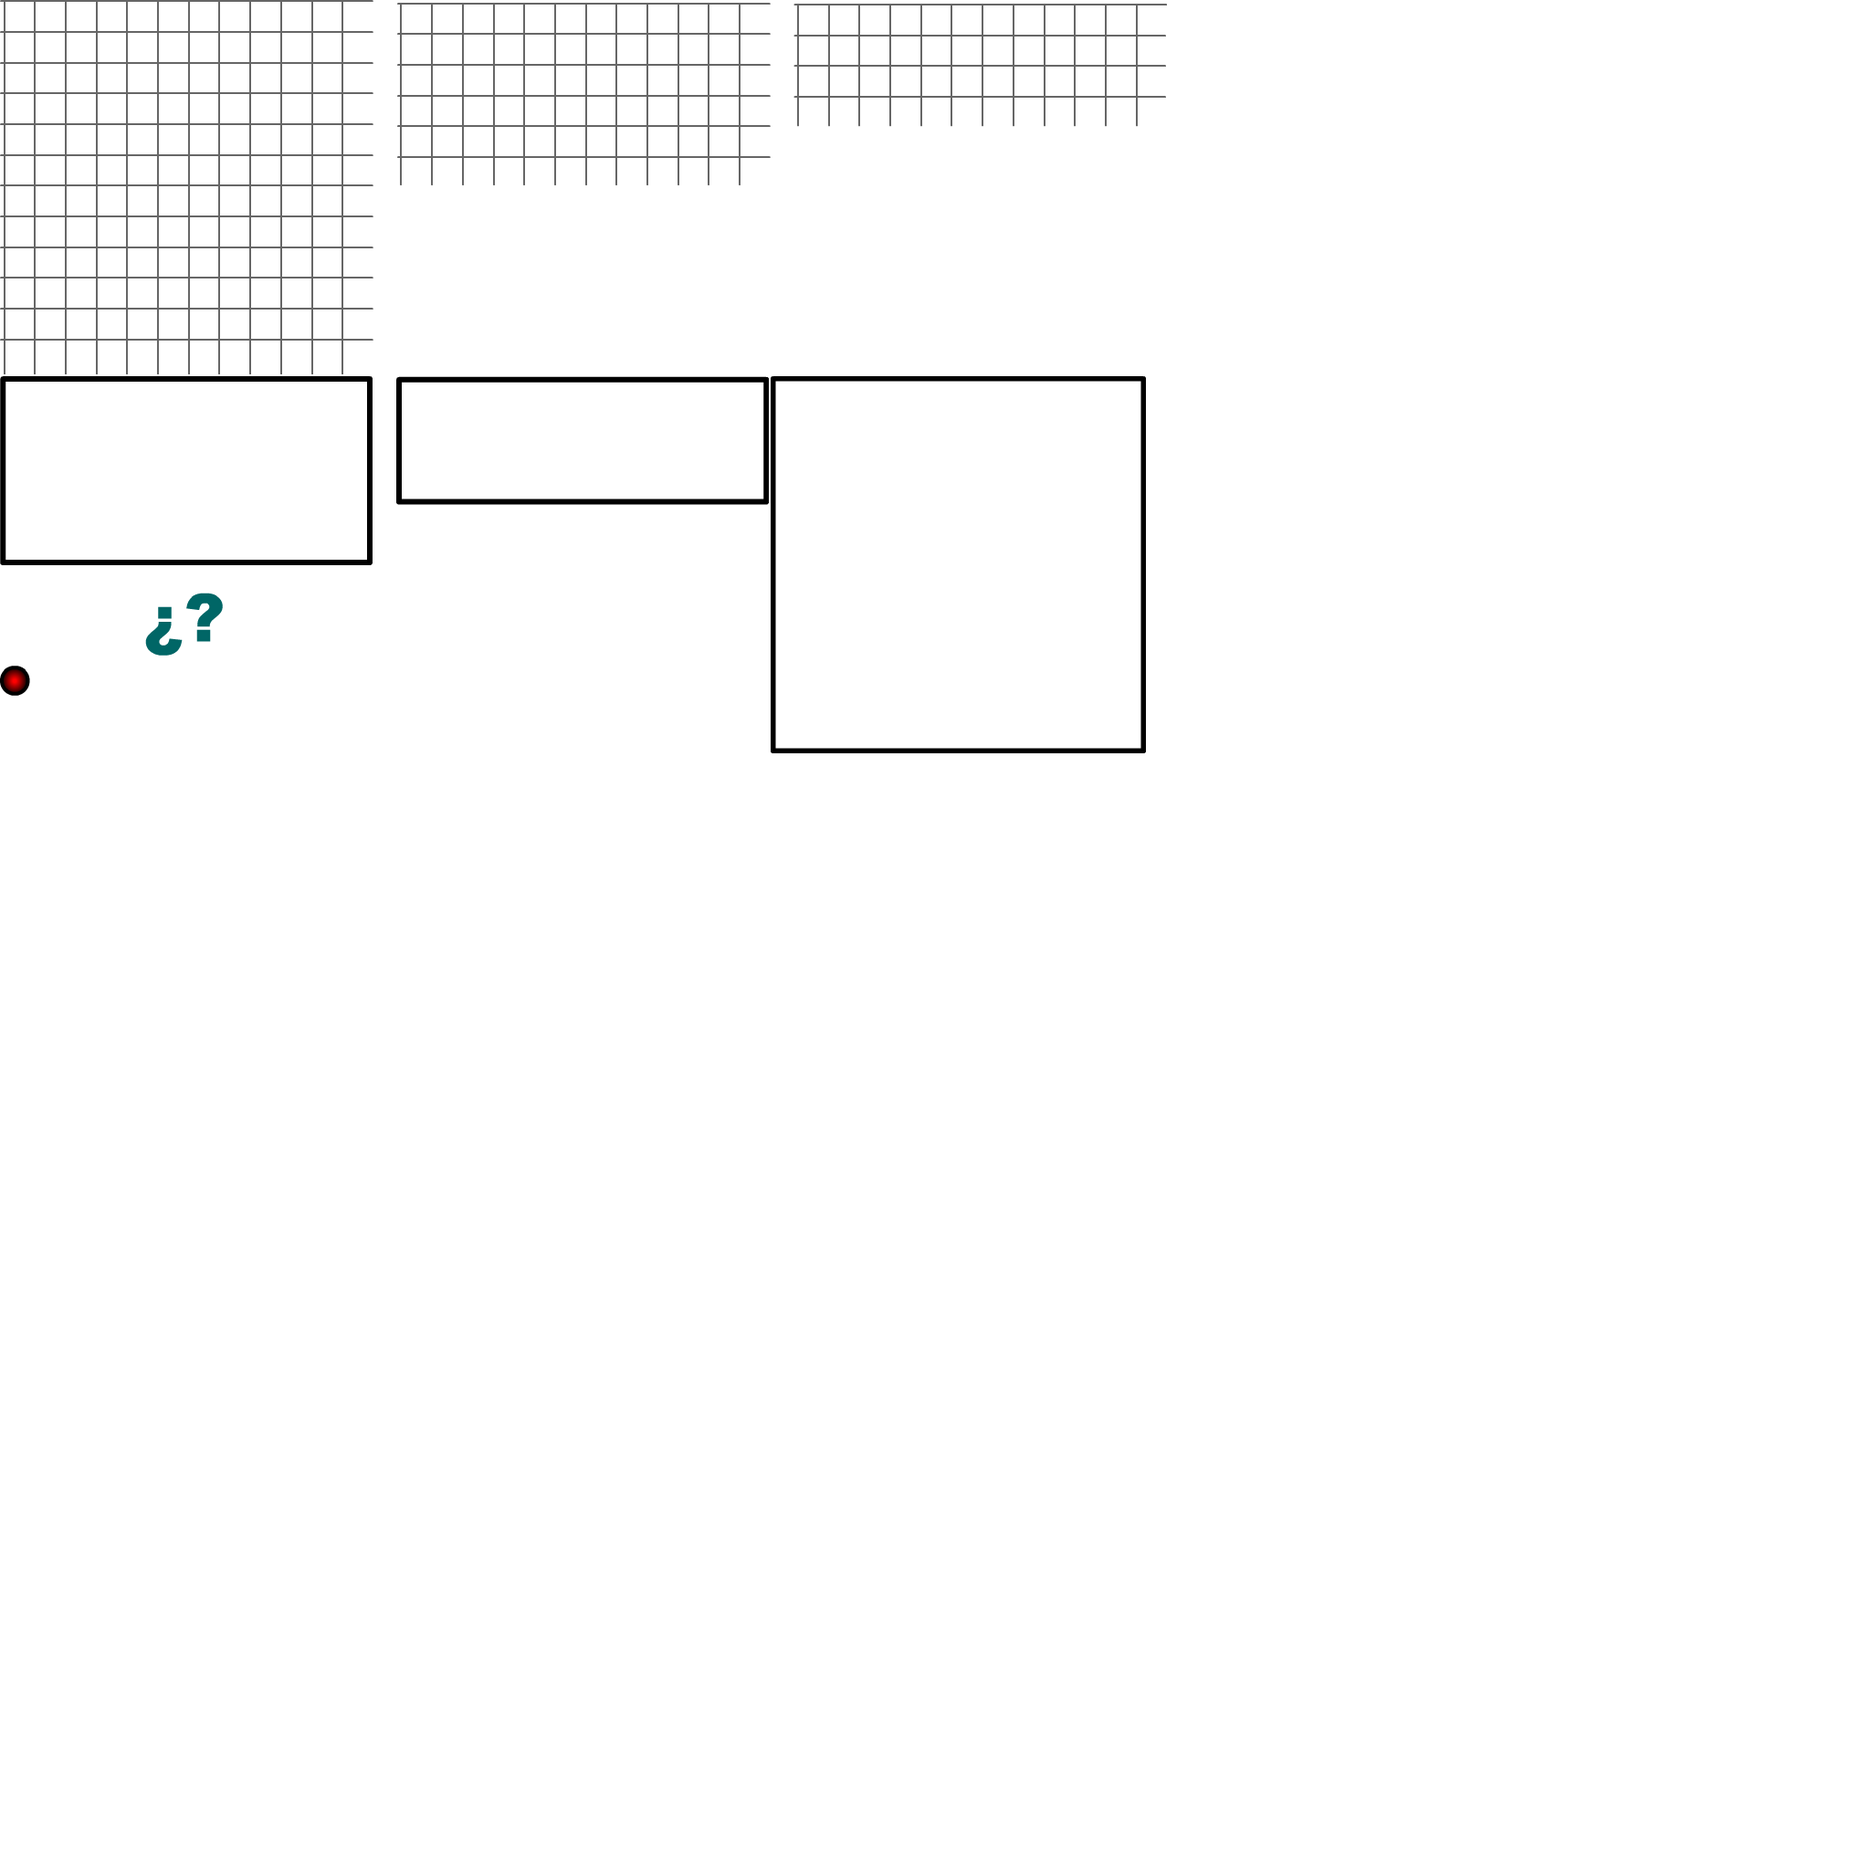
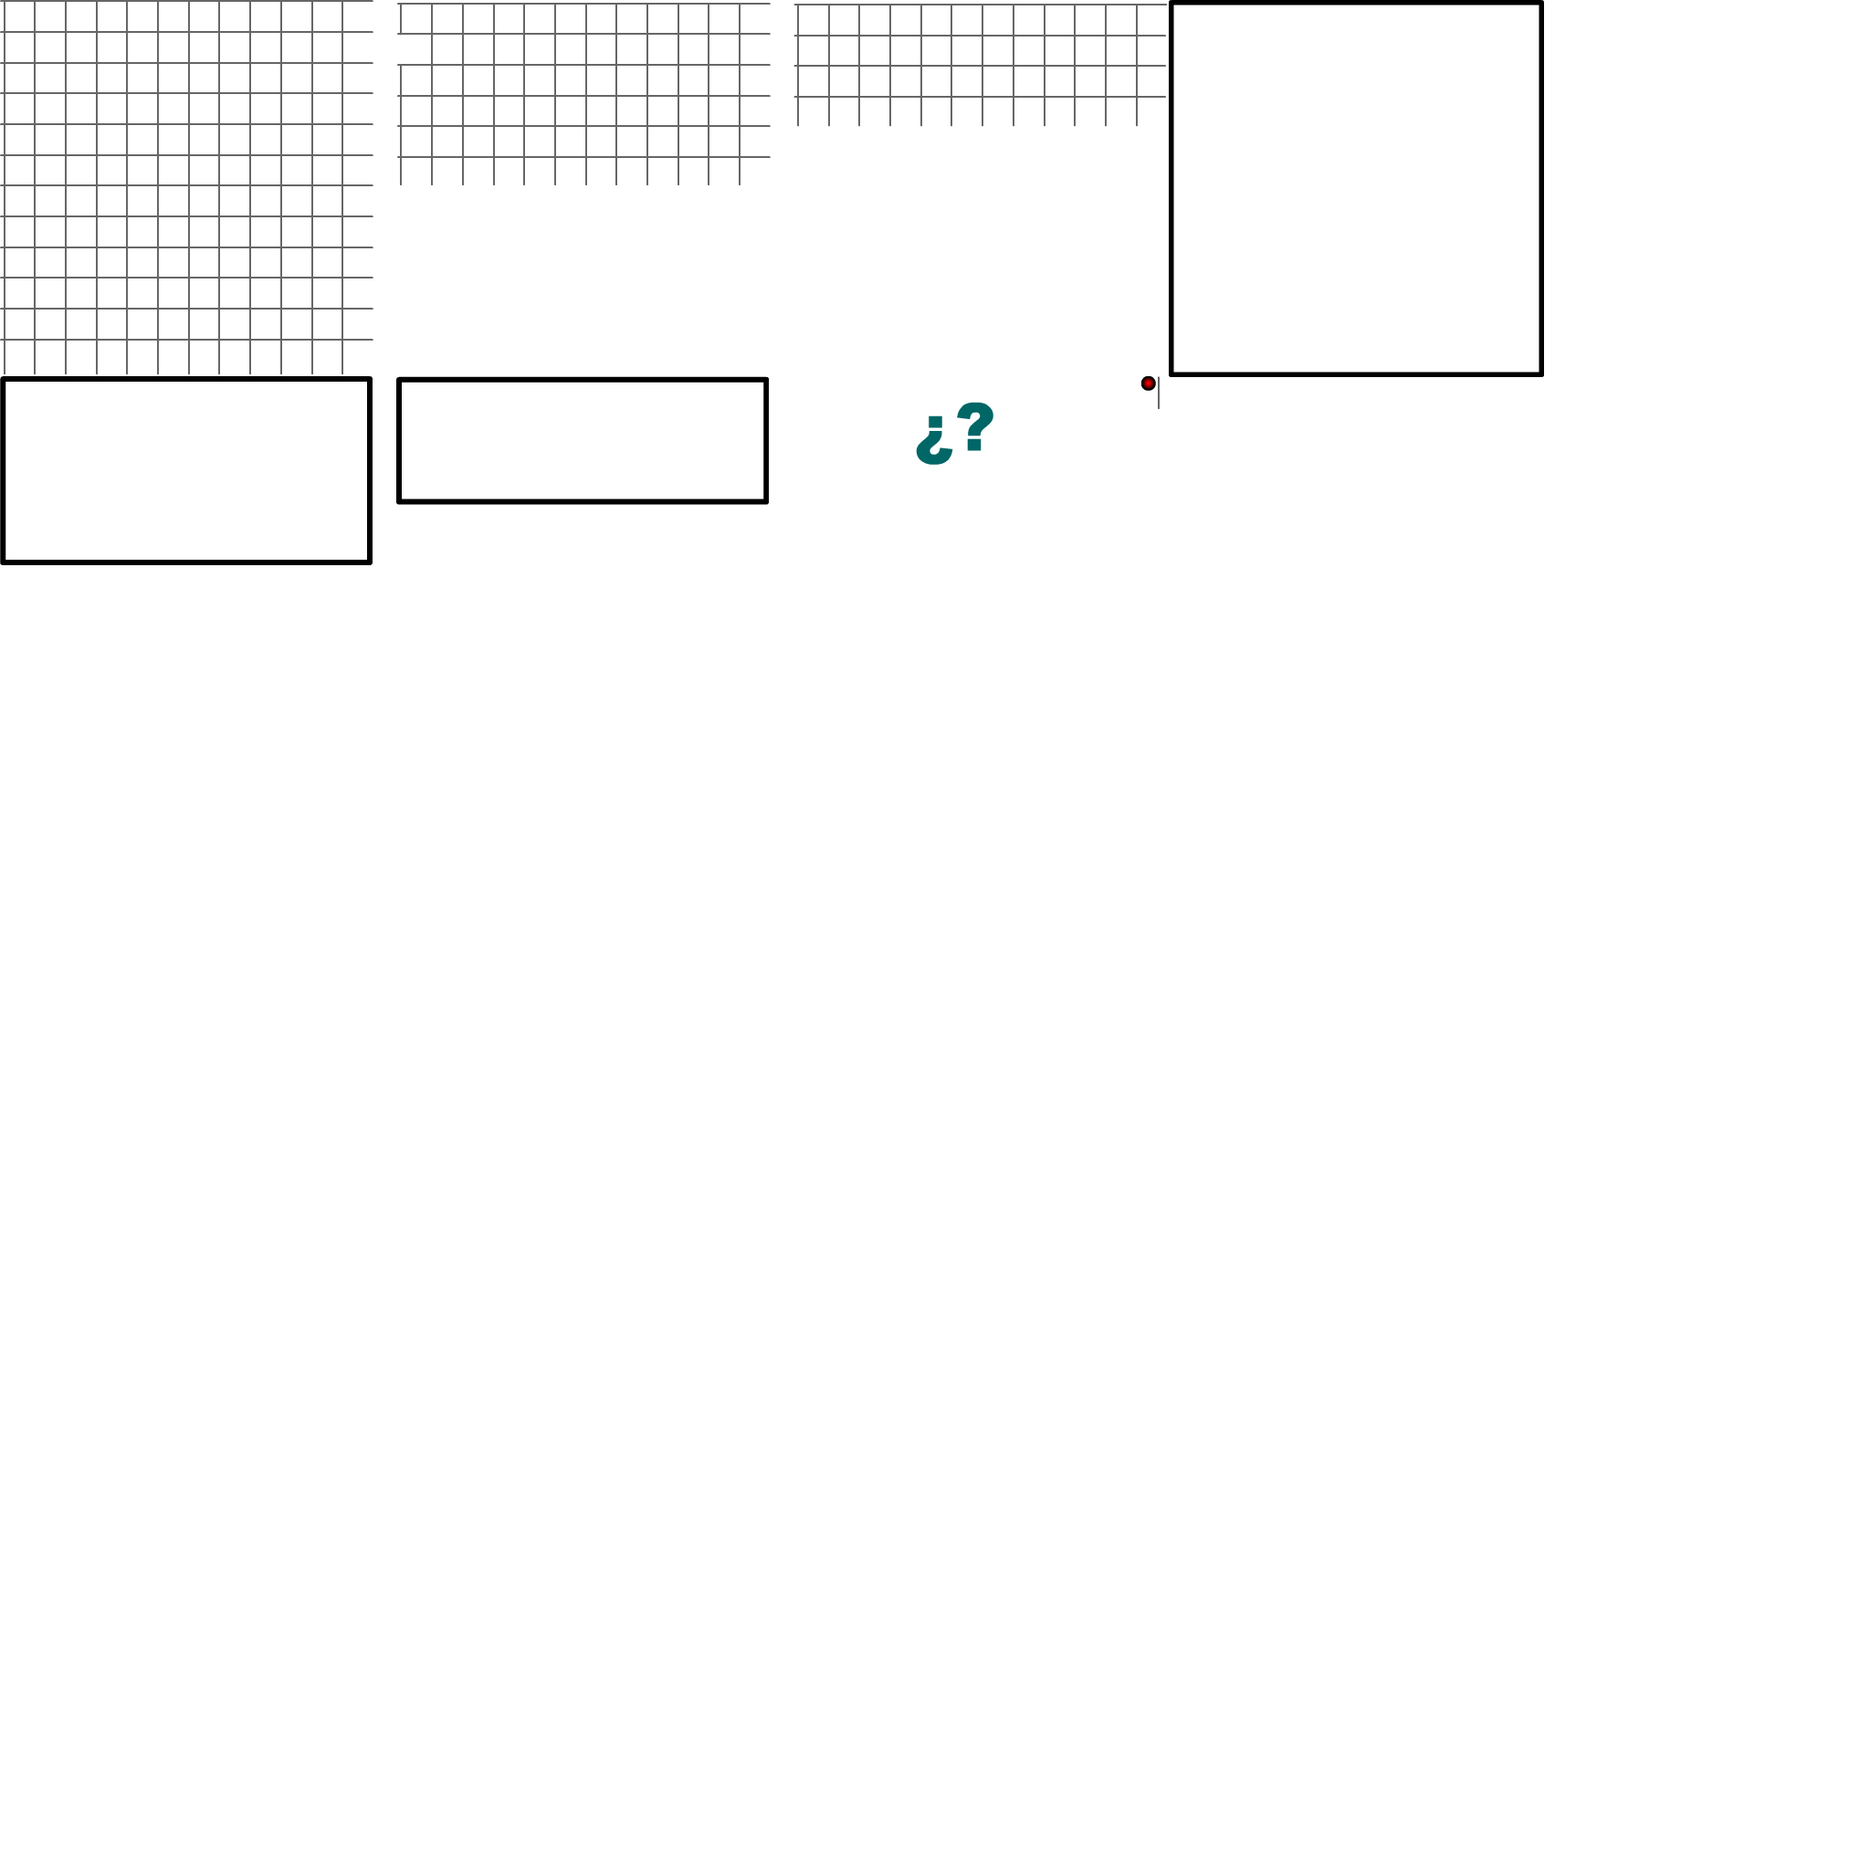
Add files via upload

diff --git a/CronopiosHcuadr.js b/CronopiosHcuadr.js
@@ -3,7 +3,7 @@
 var p; // shortcut to reference prototypes
 var lib={};var ss={};var img={};
 lib.ssMetadata = [
-		{name:"CronopiosHcuadr_atlas_", frames: [[0,412,842,207],[0,621,404,106],[0,0,1278,410],[0,729,33,33],[844,412,411,413]]}
+		{name:"CronopiosHcuadr_atlas_", frames: [[1268,412,2,36],[0,412,842,207],[844,412,404,106],[0,0,1278,410],[1250,412,16,16],[1280,0,411,413]]}
 ];
 
 
@@ -11,37 +11,44 @@ lib.ssMetadata = [
 
 
 
-(lib.CachedTexturedBitmap_21 = function() {
+(lib.CachedTexturedBitmap_1 = function() {
 	this.initialize(ss["CronopiosHcuadr_atlas_"]);
 	this.gotoAndStop(0);
 }).prototype = p = new cjs.Sprite();
 
 
 
-(lib.CachedTexturedBitmap_22 = function() {
+(lib.CachedTexturedBitmap_2 = function() {
 	this.initialize(ss["CronopiosHcuadr_atlas_"]);
 	this.gotoAndStop(1);
 }).prototype = p = new cjs.Sprite();
 
 
 
-(lib.CachedTexturedBitmap_23 = function() {
+(lib.CachedTexturedBitmap_3 = function() {
 	this.initialize(ss["CronopiosHcuadr_atlas_"]);
 	this.gotoAndStop(2);
 }).prototype = p = new cjs.Sprite();
 
 
 
-(lib.CachedTexturedBitmap_24 = function() {
+(lib.CachedTexturedBitmap_4 = function() {
 	this.initialize(ss["CronopiosHcuadr_atlas_"]);
 	this.gotoAndStop(3);
 }).prototype = p = new cjs.Sprite();
 
 
 
-(lib.CachedTexturedBitmap_25 = function() {
+(lib.CachedTexturedBitmap_5 = function() {
 	this.initialize(ss["CronopiosHcuadr_atlas_"]);
 	this.gotoAndStop(4);
+}).prototype = p = new cjs.Sprite();
+
+
+
+(lib.CachedTexturedBitmap_6 = function() {
+	this.initialize(ss["CronopiosHcuadr_atlas_"]);
+	this.gotoAndStop(5);
 }).prototype = p = new cjs.Sprite();
 // helper functions:
 
@@ -66,7 +73,7 @@ function getMCSymbolPrototype(symbol, nominalBounds, frameBounds) {
 	this.initialize(mode,startPosition,loop,{});
 
 	// Cuadricula
-	this.instance = new lib.CachedTexturedBitmap_23();
+	this.instance = new lib.CachedTexturedBitmap_4();
 	this.instance.parent = this;
 	this.instance.setTransform(7.3,13.2,0.5,0.5);
 
@@ -79,7 +86,7 @@ function getMCSymbolPrototype(symbol, nominalBounds, frameBounds) {
 	this.initialize(mode,startPosition,loop,{});
 
 	// Capa_1
-	this.instance = new lib.CachedTexturedBitmap_25();
+	this.instance = new lib.CachedTexturedBitmap_6();
 	this.instance.parent = this;
 	this.instance.setTransform(-245.8,-245.8,1.2343,1.2343);
 
@@ -92,9 +99,9 @@ function getMCSymbolPrototype(symbol, nominalBounds, frameBounds) {
 	this.initialize(mode,startPosition,loop,{});
 
 	// Capa_1
-	this.instance = new lib.CachedTexturedBitmap_24();
+	this.instance = new lib.CachedTexturedBitmap_5();
 	this.instance.parent = this;
-	this.instance.setTransform(-22.25,-25.55,1.401,1.401);
+	this.instance.setTransform(-22.15,-25.5,2.8064,2.8064);
 
 	this.timeline.addTween(cjs.Tween.get(this.instance).wait(1));
 
@@ -128,7 +135,7 @@ function getMCSymbolPrototype(symbol, nominalBounds, frameBounds) {
 	this.Capa_1 = new lib.ch_Capa_1();
 	this.Capa_1.name = "Capa_1";
 	this.Capa_1.parent = this;
-	this.Capa_1.setTransform(0.8,-2.5,1,1,0,0,0,0.8,-2.5);
+	this.Capa_1.setTransform(0.3,-3.1,1,1,0,0,0,0.3,-3.1);
 	this.Capa_1.depth = 0;
 	this.Capa_1.isAttachedToCamera = 0
 	this.Capa_1.isAttachedToMask = 0
@@ -138,119 +145,132 @@ function getMCSymbolPrototype(symbol, nominalBounds, frameBounds) {
 
 	this.timeline.addTween(cjs.Tween.get(this.Capa_1).wait(1));
 
-}).prototype = getMCSymbolPrototype(lib.ch, new cjs.Rectangle(-22.2,-25.5,46.2,46.2), null);
+}).prototype = getMCSymbolPrototype(lib.ch, new cjs.Rectangle(-22.1,-25.5,44.900000000000006,44.9), null);
 
 
 (lib.Escena_1_clips = function(mode,startPosition,loop) {
 	this.initialize(mode,startPosition,loop,{});
 
 	// clips
-	this.instance = new lib.CachedTexturedBitmap_22();
+	this.instance = new lib.CachedTexturedBitmap_3();
 	this.instance.parent = this;
 	this.instance.setTransform(444.1,15.95,0.5,0.5);
 
 	this.movieClip_18 = new lib.ch();
 	this.movieClip_18.name = "movieClip_18";
 	this.movieClip_18.parent = this;
-	this.movieClip_18.setTransform(150.5,185.65,0.3548,0.3569,0,0,0,0.1,0.1);
+	this.movieClip_18.setTransform(181.45,47.35,0.1772,0.1782,0,0,0,0.3,0.6);
 
 	this.movieClip_17 = new lib.ch();
 	this.movieClip_17.name = "movieClip_17";
 	this.movieClip_17.parent = this;
-	this.movieClip_17.setTransform(114.3,183.3,0.3548,0.3569,0,0,0,0.1,0.1);
+	this.movieClip_17.setTransform(152.7,98.15,0.1772,0.1782,0,0,0,0.3,0.6);
 
 	this.movieClip_16 = new lib.ch();
 	this.movieClip_16.name = "movieClip_16";
 	this.movieClip_16.parent = this;
-	this.movieClip_16.setTransform(32.6,183.3,0.3548,0.3569,0,0,0,0.1,0.1);
+	this.movieClip_16.setTransform(29.2,104.05,0.1772,0.1782,0,0,0,0.3,0.6);
 
 	this.movieClip_15 = new lib.ch();
 	this.movieClip_15.name = "movieClip_15";
 	this.movieClip_15.parent = this;
-	this.movieClip_15.setTransform(138.95,134.15,0.3548,0.3569,0,0,0,0.1,0);
+	this.movieClip_15.setTransform(166.75,209.55,0.1772,0.1782,0,0,0,0.3,0.3);
 
 	this.movieClip_14 = new lib.ch();
 	this.movieClip_14.name = "movieClip_14";
 	this.movieClip_14.parent = this;
-	this.movieClip_14.setTransform(73,134.15,0.3548,0.3569,0,0,0,0.1,0);
+	this.movieClip_14.setTransform(93.6,182.3,0.1772,0.1782,0,0,0,0.3,0.3);
 
 	this.movieClip_13 = new lib.ch();
 	this.movieClip_13.name = "movieClip_13";
 	this.movieClip_13.parent = this;
-	this.movieClip_13.setTransform(134.75,82.95,0.3548,0.3569,0,0,0,0.1,0.1);
+	this.movieClip_13.setTransform(110.6,123.25,0.1772,0.1782,0,0,0,0.3,0.3);
 
 	this.movieClip_12 = new lib.ch();
 	this.movieClip_12.name = "movieClip_12";
 	this.movieClip_12.parent = this;
-	this.movieClip_12.setTransform(75.75,76.05,0.3548,0.3569,0,0,0,0.1,0.1);
+	this.movieClip_12.setTransform(43.25,165.45,0.1772,0.1782,0,0,0,0.3,0.3);
 
 	this.movieClip_11 = new lib.ch();
 	this.movieClip_11.name = "movieClip_11";
 	this.movieClip_11.parent = this;
-	this.movieClip_11.setTransform(39.1,87.75,0.3548,0.3569,0,0,0,0.1,0.1);
+	this.movieClip_11.setTransform(60.65,80.85,0.1772,0.1782,0,0,0,0.3,0.3);
 
 	this.movieClip_10 = new lib.ch();
 	this.movieClip_10.name = "movieClip_10";
 	this.movieClip_10.parent = this;
-	this.movieClip_10.setTransform(161.65,38.5,0.3548,0.3569,0,0,0,0.1,0.1);
+	this.movieClip_10.setTransform(145.55,38.95,0.1772,0.1782,0,0,0,0.3,0.6);
 
 	this.movieClip_9 = new lib.ch();
 	this.movieClip_9.name = "movieClip_9";
 	this.movieClip_9.parent = this;
-	this.movieClip_9.setTransform(114.3,38.5,0.3548,0.3569,0,0,0,0.1,0.1);
+	this.movieClip_9.setTransform(60.65,105.2,0.1772,0.1782,0,0,0,0.3,0.6);
 
 	this.movieClip_8 = new lib.ch();
 	this.movieClip_8.name = "movieClip_8";
 	this.movieClip_8.parent = this;
-	this.movieClip_8.setTransform(81.3,32.95,0.3548,0.3569,0,0,0,0.1,0.1);
+	this.movieClip_8.setTransform(110.6,29.4,0.1772,0.1782,0,0,0,0.3,0.6);
 
 	this.movieClip_7 = new lib.ch();
 	this.movieClip_7.name = "movieClip_7";
 	this.movieClip_7.parent = this;
-	this.movieClip_7.setTransform(35.9,40.95,0.3548,0.3569,0,0,0,0.1,0.1);
+	this.movieClip_7.setTransform(30.75,33.05,0.1772,0.1782,0,0,0,0.3,0.6);
 
 	this.movieClip_6 = new lib.ch();
 	this.movieClip_6.name = "movieClip_6";
 	this.movieClip_6.parent = this;
-	this.movieClip_6.setTransform(364.4,36.3,0.3548,0.3545,0,0,0,0,0.1);
+	this.movieClip_6.setTransform(387,31.8,0.1772,0.177,0,0,0,0,0.6);
 
 	this.movieClip_5 = new lib.ch();
 	this.movieClip_5.name = "movieClip_5";
 	this.movieClip_5.parent = this;
-	this.movieClip_5.setTransform(261.25,90.2,0.3548,0.3545,0,0,0,0.1,0.1);
+	this.movieClip_5.setTransform(268.9,77.35,0.1772,0.177,0,0,0,0.3,0.3);
 
 	this.movieClip_4 = new lib.ch();
 	this.movieClip_4.name = "movieClip_4";
 	this.movieClip_4.parent = this;
-	this.movieClip_4.setTransform(345.9,82.9,0.3548,0.3569,0,0,0,0.1,0);
+	this.movieClip_4.setTransform(311.25,73.65,0.1772,0.1782,0,0,0,0.3,0);
 
 	this.movieClip_3 = new lib.ch();
 	this.movieClip_3.name = "movieClip_3";
 	this.movieClip_3.parent = this;
-	this.movieClip_3.setTransform(388.7,69.25,0.3548,0.3569,0,0,0,0.1,0.1);
+	this.movieClip_3.setTransform(403.85,98.1,0.1772,0.1782,0,0,0,0.3,0.3);
 
 	this.movieClip_2 = new lib.ch();
 	this.movieClip_2.name = "movieClip_2";
 	this.movieClip_2.parent = this;
-	this.movieClip_2.setTransform(265.8,48,0.3548,0.3569,0,0,0,0.3,0.1);
+	this.movieClip_2.setTransform(328,40.2,0.1772,0.1782,0,0,0,0.6,0.6);
 
 	this.movieClip_1 = new lib.ch();
 	this.movieClip_1.name = "movieClip_1";
 	this.movieClip_1.parent = this;
-	this.movieClip_1.setTransform(303.55,40.95,0.3548,0.3569,0,0,0,0.1,0.1);
+	this.movieClip_1.setTransform(253.05,25.9,0.1772,0.1782,0,0,0,0.3,0.6);
 
+	this.timeline.addTween(cjs.Tween.get({}).to({state:[{t:this.movieClip_1},{t:this.movieClip_2},{t:this.movieClip_3},{t:this.movieClip_4},{t:this.movieClip_5},{t:this.movieClip_6},{t:this.movieClip_7},{t:this.movieClip_8},{t:this.movieClip_9},{t:this.movieClip_10},{t:this.movieClip_11},{t:this.movieClip_12},{t:this.movieClip_13},{t:this.movieClip_14},{t:this.movieClip_15},{t:this.movieClip_16},{t:this.movieClip_17},{t:this.movieClip_18},{t:this.instance}]}).wait(1));
+
+}).prototype = getMCSymbolPrototype(lib.Escena_1_clips, null, null);
+
+
+(lib.Escena_1_borde = function(mode,startPosition,loop) {
+	this.initialize(mode,startPosition,loop,{});
+
+	// borde
 	this.cuadrado = new lib.cuadrado();
 	this.cuadrado.name = "cuadrado";
 	this.cuadrado.parent = this;
 	this.cuadrado.setTransform(106.45,112.05,0.4051,0.4051,0,0,0,0.1,0.1);
 
-	this.instance_1 = new lib.CachedTexturedBitmap_21();
+	this.instance = new lib.CachedTexturedBitmap_2();
+	this.instance.parent = this;
+	this.instance.setTransform(224.9,13,0.5,0.5);
+
+	this.instance_1 = new lib.CachedTexturedBitmap_1();
 	this.instance_1.parent = this;
-	this.instance_1.setTransform(224.9,13,0.5,0.5);
+	this.instance_1.setTransform(226.4,31.3,0.5,0.5);
 
-	this.timeline.addTween(cjs.Tween.get({}).to({state:[{t:this.instance_1},{t:this.cuadrado},{t:this.movieClip_1},{t:this.movieClip_2},{t:this.movieClip_3},{t:this.movieClip_4},{t:this.movieClip_5},{t:this.movieClip_6},{t:this.movieClip_7},{t:this.movieClip_8},{t:this.movieClip_9},{t:this.movieClip_10},{t:this.movieClip_11},{t:this.movieClip_12},{t:this.movieClip_13},{t:this.movieClip_14},{t:this.movieClip_15},{t:this.movieClip_16},{t:this.movieClip_17},{t:this.movieClip_18},{t:this.instance}]}).wait(1));
+	this.timeline.addTween(cjs.Tween.get({}).to({state:[{t:this.instance_1},{t:this.instance},{t:this.cuadrado}]}).wait(1));
 
-}).prototype = getMCSymbolPrototype(lib.Escena_1_clips, null, null);
+}).prototype = getMCSymbolPrototype(lib.Escena_1_borde, null, null);
 
 
 // stage content:
@@ -288,7 +308,7 @@ function getMCSymbolPrototype(symbol, nominalBounds, frameBounds) {
 
 	// timeline functions:
 	this.frame_0 = function() {
-		this.cuadrado = this.clips.cuadrado;
+		this.cuadrado = this.borde.cuadrado;
 		this.movieClip_1 = this.clips.movieClip_1;
 		this.movieClip_2 = this.clips.movieClip_2;
 		this.movieClip_3 = this.clips.movieClip_3;
@@ -352,8 +372,8 @@ function getMCSymbolPrototype(symbol, nominalBounds, frameBounds) {
 		var vx18 = -2; var vy18 = -0.5;
 		
 		// --- DIMENSIONES FIJAS ---
-		var ANCHO = 15;
-		var ALTO = 15;
+		var ANCHO = 7;
+		var ALTO = 7;
 		
 		// --- INICIO DE LA ANIMACIÓN ---
 		if (mc1 && mc18) { // Verificación rápida del primero y el último
@@ -795,16 +815,30 @@ function getMCSymbolPrototype(symbol, nominalBounds, frameBounds) {
 	// actions tween:
 	this.timeline.addTween(cjs.Tween.get(this).call(this.frame_0).wait(1));
 
+	// borde_obj_
+	this.borde = new lib.Escena_1_borde();
+	this.borde.name = "borde";
+	this.borde.parent = this;
+	this.borde.setTransform(326.4,115.7,1,1,0,0,0,326.4,115.7);
+	this.borde.depth = 0;
+	this.borde.isAttachedToCamera = 0
+	this.borde.isAttachedToMask = 0
+	this.borde.layerDepth = 0
+	this.borde.layerIndex = 0
+	this.borde.maskLayerName = 0
+
+	this.timeline.addTween(cjs.Tween.get(this.borde).wait(1));
+
 	// clips_obj_
 	this.clips = new lib.Escena_1_clips();
 	this.clips.name = "clips";
 	this.clips.parent = this;
-	this.clips.setTransform(326.4,115.7,1,1,0,0,0,326.4,115.7);
+	this.clips.setTransform(335.7,114.5,1,1,0,0,0,335.7,114.5);
 	this.clips.depth = 0;
 	this.clips.isAttachedToCamera = 0
 	this.clips.isAttachedToMask = 0
 	this.clips.layerDepth = 0
-	this.clips.layerIndex = 0
+	this.clips.layerIndex = 1
 	this.clips.maskLayerName = 0
 
 	this.timeline.addTween(cjs.Tween.get(this.clips).wait(1));
@@ -818,7 +852,7 @@ function getMCSymbolPrototype(symbol, nominalBounds, frameBounds) {
 	this.Cuadricula.isAttachedToCamera = 0
 	this.Cuadricula.isAttachedToMask = 0
 	this.Cuadricula.layerDepth = 0
-	this.Cuadricula.layerIndex = 1
+	this.Cuadricula.layerIndex = 2
 	this.Cuadricula.maskLayerName = 0
 
 	this.timeline.addTween(cjs.Tween.get(this.Cuadricula).wait(1));
@@ -834,7 +868,7 @@ lib.properties = {
 	color: "#FFFFFF",
 	opacity: 1.00,
 	manifest: [
-		{src:"images/CronopiosHcuadr_atlas_.png?1765200069955", id:"CronopiosHcuadr_atlas_"}
+		{src:"images/CronopiosHcuadr_atlas_.png?1768351573462", id:"CronopiosHcuadr_atlas_"}
 	],
 	preloads: []
 };

diff --git a/CronopiosHcuadr.html b/CronopiosHcuadr.html
@@ -14,7 +14,7 @@
 <title>CronopiosHcuadr</title>
 <!-- write your code here -->
 <script src="https://code.createjs.com/createjs-2015.11.26.min.js"></script>
-<script src="CronopiosHcuadr.js?1765200069994"></script>
+<script src="CronopiosHcuadr.js?1768351573530"></script>
 <script>
 var canvas, stage, exportRoot, anim_container, dom_overlay_container, fnStartAnimation;
 function init() {
